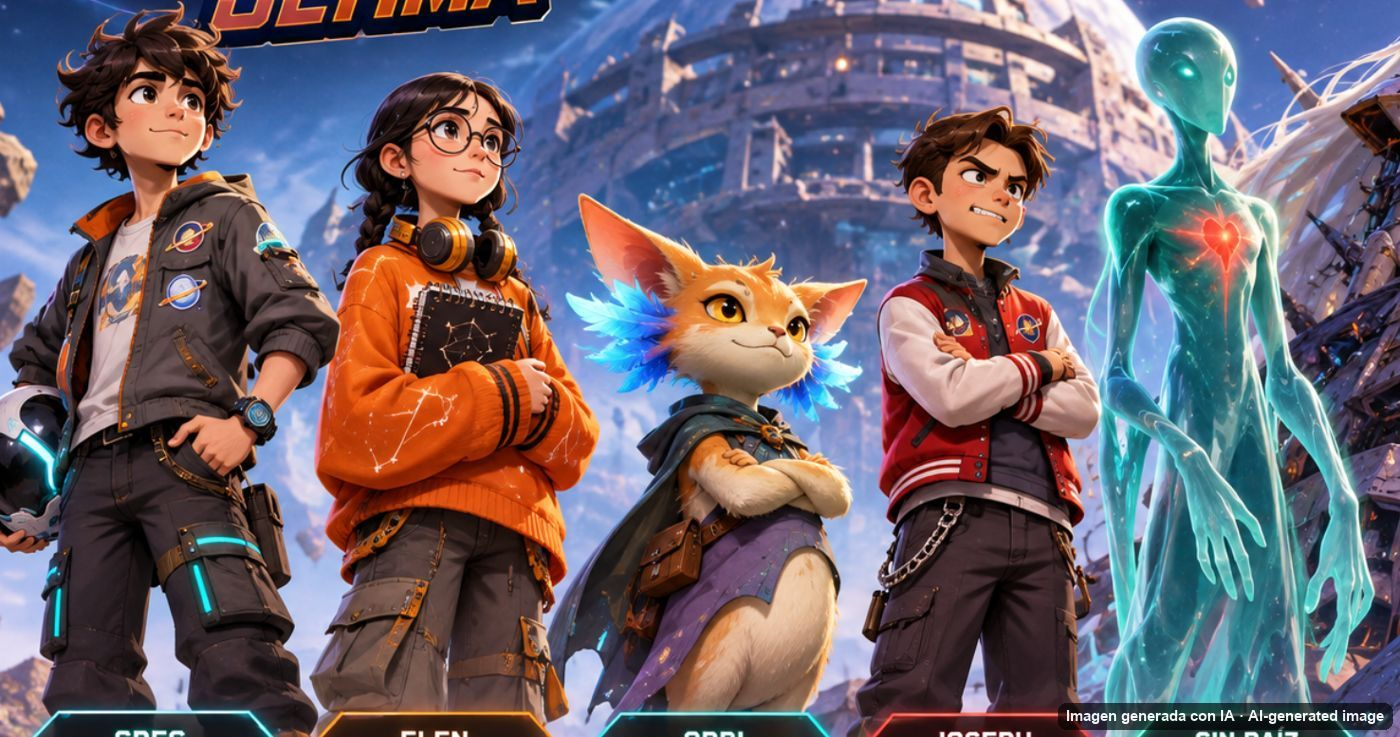
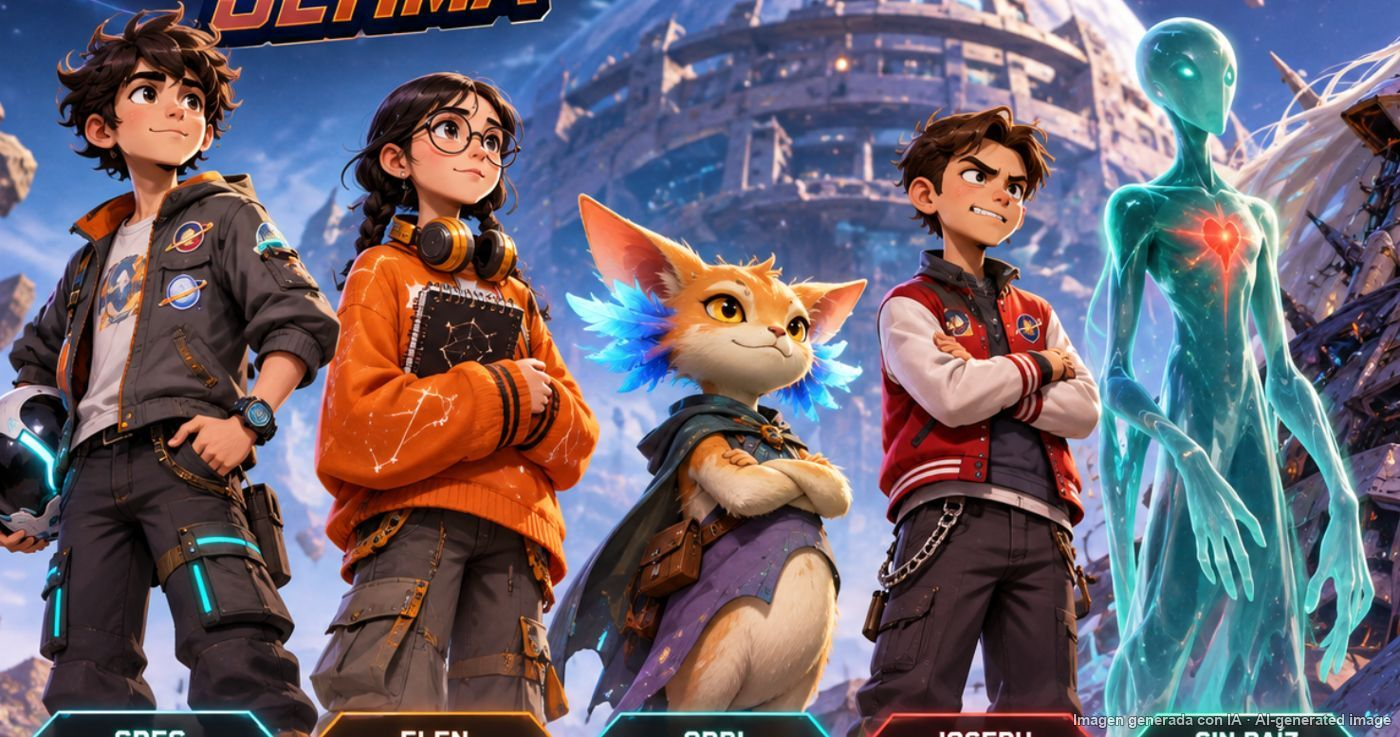
Subtler AI disclosure: small in-game label, corner marks on portraits, boxless burned-in label; neutral code credit (ES/EN)

Changed region(s): [[0.7371, 0.9362, 1.0, 0.9986]]

diff --git a/app/globals.css b/app/globals.css
@@ -18,7 +18,7 @@ body{margin:0;background:var(--bg);color:var(--fg);font:16px/1.45 system-ui,sans
 .b{background:#7c4dff;color:#fff;border:0;border-radius:10px;padding:10px 16px;font:inherit;font-weight:700;cursor:pointer}
 .b.o{background:#e65100}
 .b:disabled{opacity:.5;cursor:default}
-.pk{width:56px;height:56px;border-radius:50%;border:3px solid transparent;background:var(--key);background-size:1064% auto;cursor:pointer;padding:0}
+.pk{position:relative;width:56px;height:56px;border-radius:50%;border:3px solid transparent;background:var(--key);background-size:1064% auto;cursor:pointer;padding:0}
 .pk.on{border-color:#ffd54a}
 /* Top padding leaves room for the config buttons, which stay above the backdrop. */
 #md{position:fixed;inset:0;background:#000b;display:flex;align-items:center;justify-content:center;padding:calc(env(safe-area-inset-top,0px) + 44px) 10px 10px;z-index:9;overflow:auto}
@@ -82,15 +82,14 @@ button.cd{cursor:pointer}button.cd:hover{border-color:#7c4dff}
 .st>span{min-width:140px;font-weight:700}
 .st .b.on{outline:3px solid #ffd54a}
 /* AI-image watermark (components/ui/Watermark.tsx). .wmc = position:relative size container
-   around an AI image; .wm covers the label burned into the JPEG by scripts/extract_assets.py
-   (same geometry in cqw = % of the image width: 0.6 margin, 23.86 × 1.86 box). */
+   around an AI image. .wm is the small in-game label; it sits just above the subtle label burned
+   into the JPEG by scripts/extract_assets.py (0.6 cqw margin, 1.14 cqw tall; cqw = % of image width). */
 .wmc{position:relative;container-type:inline-size}
-.wm{position:absolute;right:.6cqw;bottom:.6cqw;z-index:200;box-sizing:border-box;min-width:23.86cqw;min-height:1.86cqw;display:flex;align-items:center;justify-content:center;padding:.3cqw .6cqw;border-radius:.56cqw;background:#000000d9;-webkit-backdrop-filter:blur(3px);backdrop-filter:blur(3px);color:#fff;font:700 max(9px,1.1cqw)/1.15 system-ui,sans-serif;white-space:nowrap;pointer-events:none;user-select:none}
-/* Compact badge for crops of the AI images (portraits, sprites, boss art). */
-.wm.wms{position:static;min-width:0;min-height:0;display:inline-block;padding:2px 6px;border-radius:6px;font-size:10px}
+.wm{position:absolute;right:max(4px,.6cqw);bottom:calc(2.1cqw + 2px);z-index:200;color:#fff;opacity:.6;font:600 11px/1.2 system-ui,sans-serif;text-shadow:0 0 3px #000,0 1px 2px #000;white-space:nowrap;pointer-events:none;user-select:none}
+/* Tiny corner mark for small crops of the AI images (portraits, sprites, boss art). */
+.wms{position:absolute;right:0;bottom:0;z-index:1;padding:1px 3px;border-radius:4px;background:#0000004d;color:#fff;opacity:.75;font:700 8px/1.1 system-ui,sans-serif;pointer-events:none;user-select:none}
 .wmp{position:relative;flex:none;display:inline-block}
-.wmp>.wms{position:absolute;left:50%;bottom:-6px;transform:translateX(-50%);z-index:1}
-.wmb>.wms{position:absolute;right:6px;bottom:6px}
+.wmb>.wms{right:4px;bottom:4px}
 /* Credits page */
 #cred{max-width:760px;margin:0 auto;max-height:none}
 #cred h2{margin:18px 0 6px;font-size:20px}
@@ -107,7 +106,7 @@ button.cd{cursor:pointer}button.cd:hover{border-color:#7c4dff}
 /* ---- Phase 4: La Señal de Ray (TempChart, FireMap) ---- */
 .ray{display:flex;gap:12px;align-items:flex-start;margin:8px 0;padding:10px;border:2px solid #26c6da;border-radius:12px;background:#26c6da1a}
 .ray .pt{width:56px;border-color:#26c6da}
-.ray .wmp{margin:0 8px 10px}
+.ray .wmp{margin:0 8px}
 .ray p{margin:0;font-size:14px}
 .yrs{display:grid;grid-template-columns:repeat(auto-fit,minmax(120px,1fr));gap:0 8px}
 .yrs .op{text-align:center;font-weight:700}
@@ -129,7 +128,7 @@ button.cd{cursor:pointer}button.cd:hover{border-color:#7c4dff}
 /* ---- Phase 5: character features ---- */
 .host{position:relative;display:flex;gap:12px;align-items:flex-start;margin:8px 0;padding:10px;border:2px solid var(--bd);border-radius:16px 16px 16px 4px;background:color-mix(in srgb,var(--card) 85%,#7c4dff)}
 .host .pt{width:56px;flex:none}
-.host .wmp{margin:0 8px 10px}
+.host .wmp{margin:0 8px}
 .host p{margin:0;font-size:14px}
 .b.hint{background:#ffd54a;color:#3b2a00;margin:6px 0}
 .patchw{position:relative;width:min(100%,320px);aspect-ratio:1;margin:8px auto}
@@ -143,7 +142,7 @@ button.cd{cursor:pointer}button.cd:hover{border-color:#7c4dff}
 .invp img{width:96px;height:96px;border-radius:12px}
 .memv{display:flex;gap:12px;align-items:center;margin:10px 0}
 .memv .pt{width:72px;flex:none;border-color:#26c6da}
-.memv .wmp{margin:0 8px 10px}
+.memv .wmp{margin:0 8px}
 .memv p{margin:4px 0;font-style:italic;opacity:0;animation:memIn .9s ease forwards}
 .memo{text-align:center;color:#26c6da}
 @keyframes memIn{from{opacity:0;transform:translateY(6px)}to{opacity:1;transform:none}}
@@ -158,7 +157,7 @@ button.cd{cursor:pointer}button.cd:hover{border-color:#7c4dff}
 .btopic{margin:8px 0 0;font-weight:700;color:#7c4dff}
 .end .endc{display:flex;flex:none}
 .end .endc .pt{width:64px}
-.end .endc .wmp{margin:0 4px 10px}
+.end .endc .wmp{margin:0 4px}
 @media(max-width:480px){.end .memv{flex-direction:column}}
 .certn{display:grid;gap:6px;margin:8px 0}
 .certn input{font:inherit;padding:10px;border-radius:10px;border:2px solid var(--bd);background:var(--bg);color:var(--fg)}

diff --git a/lib/content/credits.ts b/lib/content/credits.ts
@@ -145,12 +145,12 @@ export const CREDITS = {
 
   aiTitle: { es: "🤖 Uso de inteligencia artificial (IA)", en: "🤖 Use of artificial intelligence (AI)" },
   aiImages: {
-    es: "Imágenes: el mapa del colegio, la portada y la lámina de personajes fueron generados con IA ({tool}). Llevan la marca «Imagen generada con IA» dentro del propio archivo y también encima de la imagen en el juego. Los retratos y personajes del mapa son recortes de esas mismas imágenes.",
-    en: "Images: the school map, the key art and the character sheet were generated with AI ({tool}). They carry the label “AI-generated image” inside the file itself and also on top of the image in the game. The portraits and map characters are crops of those same images.",
+    es: "Imágenes: el mapa del colegio, la portada y la lámina de personajes fueron generados con IA ({tool}). Llevan la marca «Imagen generada con IA» dentro del propio archivo y también encima de la imagen en el juego. Los retratos y personajes del mapa son recortes de esas mismas imágenes y llevan una pequeña marca «IA».",
+    en: "Images: the school map, the key art and the character sheet were generated with AI ({tool}). They carry the label “AI-generated image” inside the file itself and also on top of the image in the game. The portraits and map characters are crops of those same images and carry a small “AI” mark.",
   },
   aiCode: {
-    es: "Código: escrito con Claude Code (Anthropic), con la dirección del equipo.",
-    en: "Code: written with Claude Code (Anthropic), under the team’s direction.",
+    es: "Código: desarrollado por el equipo con herramientas de programación asistida por IA.",
+    en: "Code: developed by the team with AI-assisted programming tools.",
   },
   aiAudio: {
     es: "Sonido y música: generados en el navegador con Web Audio (sin archivos de audio).",

diff --git a/components/ui/Watermark.tsx b/components/ui/Watermark.tsx
@@ -2,19 +2,23 @@
 
 import { useT } from "@/lib/i18n";
 
-/** "Imagen generada con IA" / "AI-generated image" label (Space Apps rule for AI images).
+/** AI-image disclosure (Space Apps rule for AI images).
  *
- *  Default: absolutely positioned in the bottom-right corner of its container, which must be
- *  `position: relative` and a size container (`.wmc`). It is sized in cqw to cover exactly the
- *  bilingual label burned into the JPEG by scripts/extract_assets.py, so the in-game view shows
- *  one label in the current language, while downloaded files still carry the burned one.
+ *  Default: small semi-transparent "Imagen generada con IA" / "AI-generated image" text in the
+ *  bottom-right corner of its container, which must be `position: relative` and a size container
+ *  (`.wmc`). It sits just above the subtle bilingual label burned into the JPEG by
+ *  scripts/extract_assets.py, which stays in the file (and in downloads).
  *
- *  `compact`: a small inline badge for crops of the AI images (portraits, sprites, boss art). */
+ *  `compact`: a tiny "IA" / "AI" corner mark for small crops of the AI images (portraits,
+ *  sprites, boss art). Its parent must be `position: relative` (`.wmp`, `.wmb`, `.pk`). */
 export default function Watermark({ compact }: { compact?: boolean }) {
   const t = useT();
-  return (
-    <span className={compact ? "wm wms" : "wm"}>
-      {t(compact ? "ai.watermarkShort" : "ai.watermark")}
-    </span>
-  );
+  if (compact) {
+    return (
+      <span className="wms" role="img" aria-label={t("ai.watermark")} title={t("ai.watermark")}>
+        {t("ai.mark")}
+      </span>
+    );
+  }
+  return <span className="wm">{t("ai.watermark")}</span>;
 }

diff --git a/components/games/Certificate.tsx b/components/games/Certificate.tsx
@@ -139,13 +139,16 @@ export default function Certificate() {
     x.beginPath();
     x.arc(px0, py0, pr, 0, Math.PI * 2);
     x.stroke();
-    x.font = `bold 15px ${SANS}`;
-    const wm = t("ai.watermarkShort");
-    const ww = x.measureText(wm).width + 16;
-    x.fillStyle = "#000000aa";
-    x.fillRect(px0 - ww / 2, py0 + pr + 10, ww, 24);
+    // Tiny "IA" / "AI" corner mark (the portrait is a crop of AI art).
+    x.save();
+    x.font = `bold 13px ${SANS}`;
+    x.textAlign = "right";
+    x.globalAlpha = 0.7;
+    x.shadowColor = "#000";
+    x.shadowBlur = 3;
     x.fillStyle = "#ffffff";
-    x.fillText(wm, px0, py0 + pr + 28);
+    x.fillText(t("ai.mark"), px0 + pr + 6, py0 + pr + 2);
+    x.restore();
     x.font = `20px ${SANS}`;
     x.fillStyle = "#cfc6ff";
     x.fillText(t(CERT_TXT.hero, { hero: heroName }), px0, py0 - pr - 16);

diff --git a/app/page.tsx b/app/page.tsx
@@ -86,10 +86,11 @@ export default function TitlePage() {
                 title={t(CH[i].n)}
                 aria-label={t(CH[i].n)}
                 aria-pressed={character === i}
-              />
+              >
+                <Watermark compact />
+              </button>
             ))}
           </span>
-          <Watermark compact />
           <button className="b" onClick={() => router.push("/play")}>{t("title.play")}</button>
           <button className="b o" onClick={() => useUI.getState().openModal({ kind: "ar" })}>{t("title.tryAr")}</button>
         </div>

diff --git a/lib/content/ui.ts b/lib/content/ui.ts
@@ -104,7 +104,7 @@ export const UI = {
 
   // AI-image watermark (Space Apps rule)
   "ai.watermark": { es: "Imagen generada con IA", en: "AI-generated image" },
-  "ai.watermarkShort": { es: "Imagen IA", en: "AI image" },
+  "ai.mark": { es: "IA", en: "AI" },
 
   "settings.home": { es: "🏠 Volver a la portada", en: "🏠 Back to the title screen" },
 } satisfies Record<string, Localized>;

diff --git a/scripts/extract_assets.py b/scripts/extract_assets.py
@@ -8,15 +8,16 @@ The prototype defines three CSS custom properties holding data URLs:
   --cast -> public/img/cast.jpg
 
 All three are AI-generated, so each file gets a bilingual label burned into its
-bottom-right corner ("Imagen generada con IA · AI-generated image") plus a JPEG
+bottom-right corner ("Imagen generada con IA · AI-generated image": small
+semi-transparent white text with a faint dark outline, no box) plus a JPEG
 comment with the same text. The images are re-encoded with Pillow's
 quality="keep" / subsampling="keep", i.e. the original quantisation tables and
 chroma subsampling, so quality matches the source. Always run this on the
 prototype HTML (the clean originals) — never on already-watermarked files.
 
-The label geometry is defined as fractions of the image width (WM_* below) so
-the in-game overlay (components/ui/Watermark.tsx, .wm in app/globals.css) can
-sit exactly on top of it.
+The label geometry is defined as fractions of the image width (WM_* below); the
+in-game label (components/ui/Watermark.tsx, .wm in app/globals.css) sits just
+above it.
 
 Requires Pillow (pip install Pillow).
 
@@ -50,9 +51,9 @@ REPO_ROOT = Path(__file__).resolve().parent.parent
 WM_TEXT = "Imagen generada con IA · AI-generated image"
 # Geometry as fractions of the image width; mirrored by .wm in app/globals.css.
 WM_FONT = 0.011  # text height (font size)
-WM_PAD_X = 0.006
-WM_PAD_Y = 0.003
 WM_MARGIN = 0.006  # distance from the right and bottom edges
+WM_FILL = (255, 255, 255, 160)  # ~63% opaque white
+WM_STROKE = (0, 0, 0, 110)  # faint outline so the text reads on light areas
 WM_FONTS = [
     "arialbd.ttf",  # Windows
     "Arial Bold.ttf",  # macOS
@@ -73,24 +74,23 @@ def load_font(size: int):
 
 
 def watermark(jpeg: bytes) -> tuple[bytes, tuple[float, float]]:
-    """Burn WM_TEXT into the bottom-right corner. Returns the new JPEG bytes and
-    the label box size (width, height) as fractions of the image width."""
+    """Burn WM_TEXT into the bottom-right corner (text only, no box). Returns the
+    new JPEG bytes and the label size (width, height) as fractions of the image width."""
     from PIL import Image, ImageDraw
 
     src = Image.open(io.BytesIO(jpeg))
     w, h = src.size
-    font = load_font(max(10, round(WM_FONT * w)))
-    pad_x, pad_y, margin = round(WM_PAD_X * w), round(WM_PAD_Y * w), round(WM_MARGIN * w)
-    l, t, r, b = font.getbbox(WM_TEXT)
-    asc, desc = font.getmetrics()
-    box_w, box_h = (r - l) + 2 * pad_x, asc + desc + 2 * pad_y
-    x1, y1 = w - margin, h - margin
-    x0, y0 = x1 - box_w, y1 - box_h
+    size = max(10, round(WM_FONT * w))
+    font = load_font(size)
+    stroke = max(1, round(size / 14))
+    margin = round(WM_MARGIN * w)
+    l, t, r, b = font.getbbox(WM_TEXT, stroke_width=stroke)
+    box_w, box_h = r - l, b - t
+    x0, y0 = w - margin - box_w, h - margin - box_h
 
     overlay = Image.new("RGBA", src.size, (0, 0, 0, 0))
     d = ImageDraw.Draw(overlay)
-    d.rounded_rectangle((x0, y0, x1, y1), radius=round(box_h * 0.3), fill=(0, 0, 0, 165))
-    d.text((x0 + pad_x - l, y0 + pad_y), WM_TEXT, font=font, fill=(255, 255, 255, 235))
+    d.text((x0 - l, y0 - t), WM_TEXT, font=font, fill=WM_FILL, stroke_width=stroke, stroke_fill=WM_STROKE)
     out_img = Image.alpha_composite(src.convert("RGBA"), overlay).convert("RGB")
 
     buf = io.BytesIO()

diff --git a/README.md b/README.md
@@ -60,8 +60,8 @@ This game does not use NASA logos, insignia or branding, and it is not endorsed 
 
 ### Use of artificial intelligence (AI)
 
-- **Images:** the school map, the key art and the character sheet were generated with AI (AI text-to-image generation tool). They carry the label "AI-generated image" inside the file itself and also on top of the image in the game. The portraits and map characters are crops of those same images.
-- **Code:** written with Claude Code (Anthropic), under the team's direction.
+- **Images:** the school map, the key art and the character sheet were generated with AI (AI text-to-image generation tool). They carry the label "AI-generated image" inside the file itself and also on top of the image in the game. The portraits and map characters are crops of those same images and carry a small "AI" mark.
+- **Code:** developed by the team with AI-assisted programming tools.
 - **Sound and music:** synthesised in the browser with Web Audio (no audio files).
 
 ### Team
@@ -168,8 +168,8 @@ Este juego no usa logotipos, insignias ni marcas de la NASA, y no está respalda
 
 ### Uso de inteligencia artificial (IA)
 
-- **Imágenes:** el mapa del colegio, la portada y la lámina de personajes fueron generados con IA (herramienta de generación de imágenes con IA, texto a imagen). Llevan la marca «Imagen generada con IA» dentro del propio archivo y también encima de la imagen en el juego. Los retratos y personajes del mapa son recortes de esas mismas imágenes.
-- **Código:** escrito con Claude Code (Anthropic), con la dirección del equipo.
+- **Imágenes:** el mapa del colegio, la portada y la lámina de personajes fueron generados con IA (herramienta de generación de imágenes con IA, texto a imagen). Llevan la marca «Imagen generada con IA» dentro del propio archivo y también encima de la imagen en el juego. Los retratos y personajes del mapa son recortes de esas mismas imágenes y llevan una pequeña marca «IA».
+- **Código:** desarrollado por el equipo con herramientas de programación asistida por IA.
 - **Sonido y música:** generados en el navegador con Web Audio (sin archivos de audio).
 
 ### Equipo
